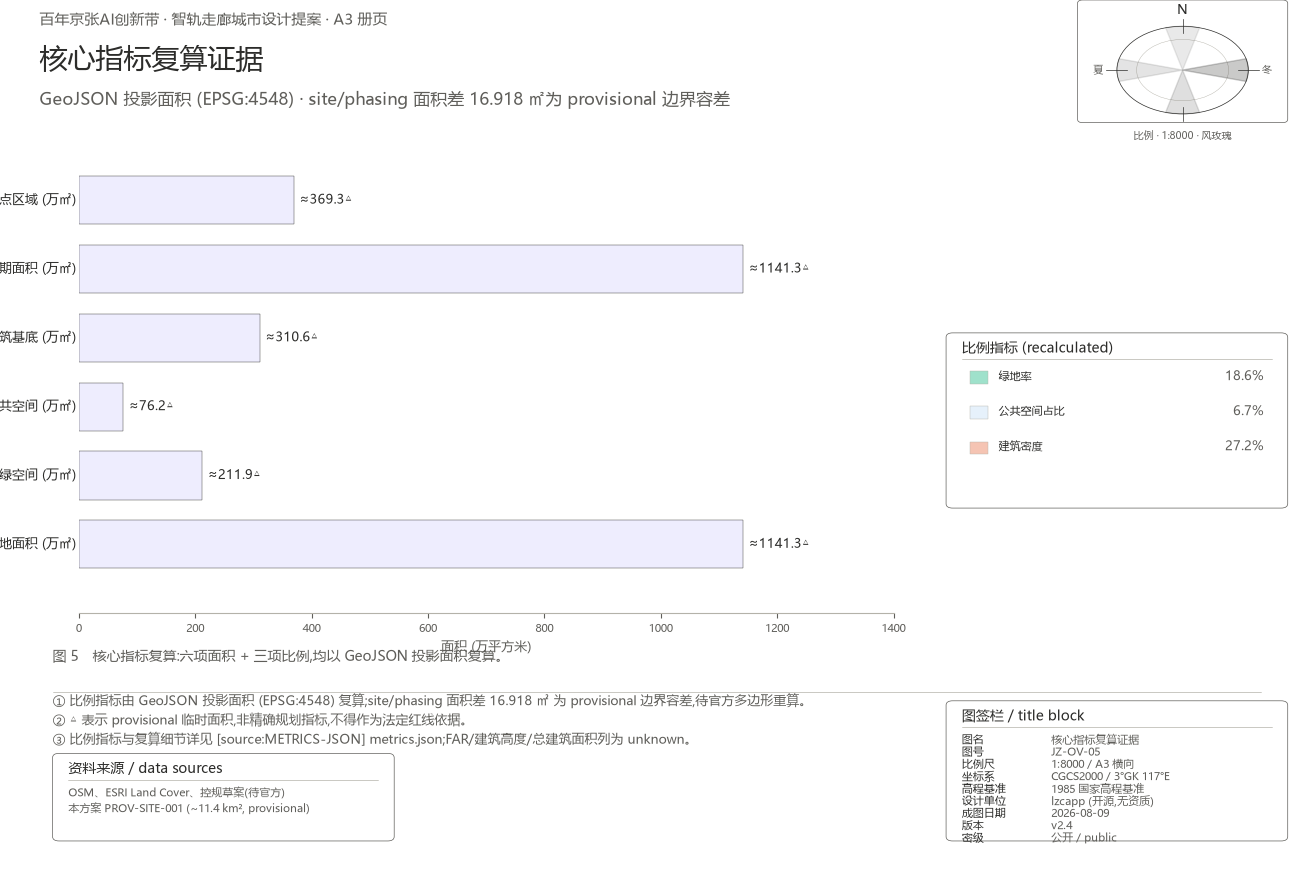
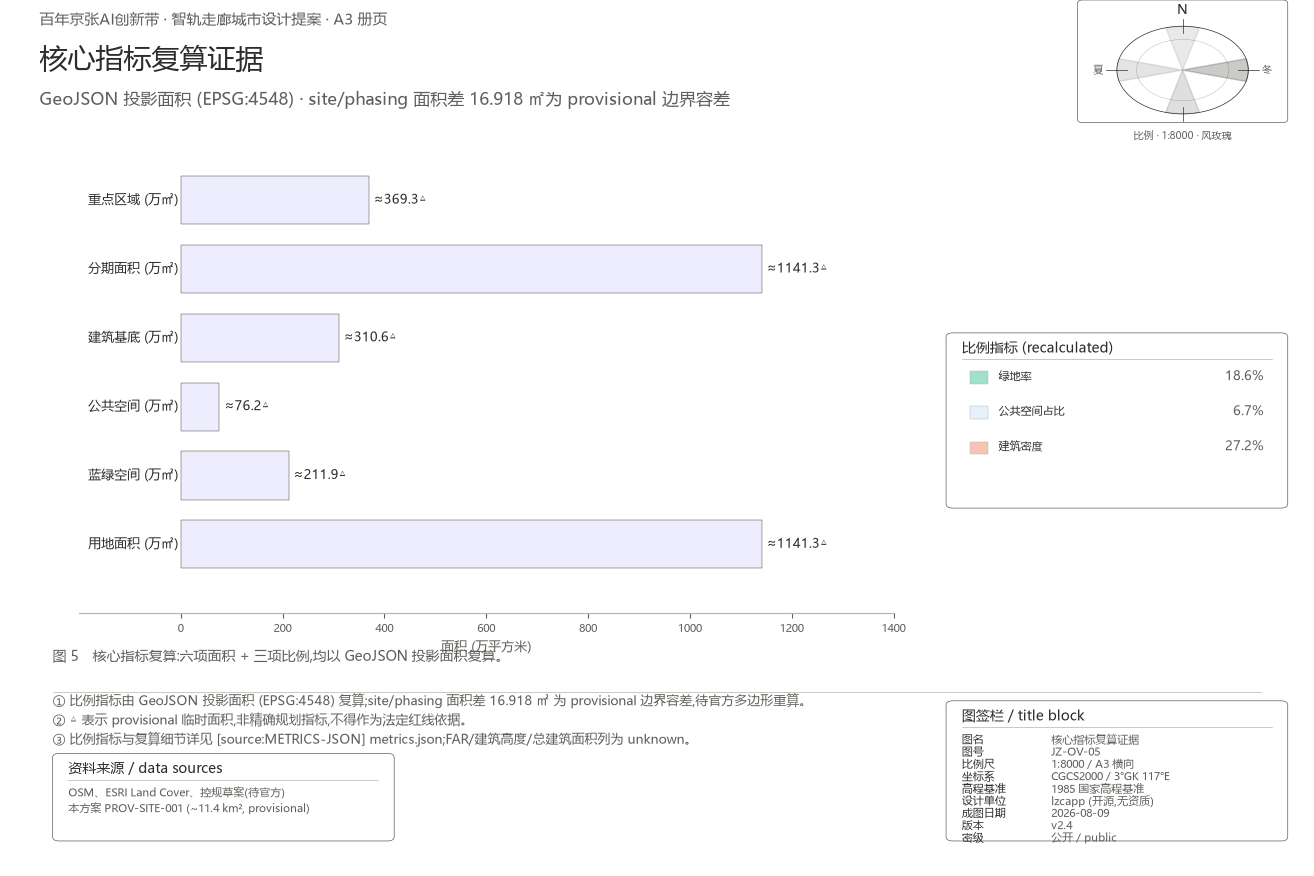
fix(lzcapp/jingzhang-ai-belt): figures v2.6 — 修 metrics-evidence 左侧类别标签裁切
问题: metrics-evidence.png 横条图左侧 6 个类别标签(重点区域/分期面积/建筑基底/公共空间/蓝绿空间/用地面积,均带 (万㎡) 单位) 全部被裁掉了第一个字 — 显示成"点区域/期面积/筑基底/共空间/绿空间/地面积"。

根因: build_fig_metrics_evidence 用 ax.set_xlim(0, 1400) 但 text(ax, -5, y, label, ha="right"), 标签右锚在 x=-5(轴外), 文字向左延伸至约 x=-160。matplotlib 默认 clip 让轴外内容不可见, 而 xlim 没给左侧留任何空间。

修复: xlim 从 (0, 1400) 改为 (-200, 1400), 给左侧标签留 200 单位 ≈ 80 px figure 空间。文字左端约 x=-160 在新 xlim 内, 完整显示。

其他 4 张图未动 (site-overview / key-areas / land-use-structure / mobility-bluegreen 维持 v2.4 状态)。validate_submission.py 仍 ok:true / errors:[], stage=formal。仍按既定规则走 fork 推送, 不开 PR。

diff --git a/build_figures_v2.py b/build_figures_v2.py
@@ -575,7 +575,7 @@ def build_fig_metrics_evidence(out_path):
         "核心指标复算证据",
         "GeoJSON 投影面积 (EPSG:4548) · site/phasing 面积差 16.918 ㎡为 provisional 边界容差")
     ax = fig.add_axes([0.06, 0.30, 0.62, 0.55])
-    ax.set_xlim(0, 1400); ax.set_ylim(0, 7); ax.set_facecolor("white")
+    ax.set_xlim(-200, 1400); ax.set_ylim(0, 7); ax.set_facecolor("white")
     metrics = [
         ("重点区域 (万㎡)", 369.3),
         ("分期面积 (万㎡)", 1141.3),
